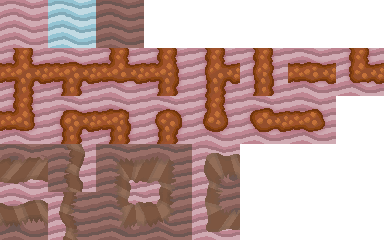
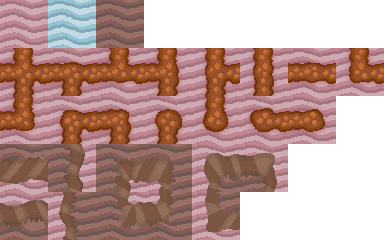
Added new tile

Changed region(s): [[0.625, 0.5833, 0.75, 0.8167]]

diff --git a/src/tile_image_loader.py b/src/tile_image_loader.py
@@ -38,6 +38,7 @@ wall_7 = (144, 144, 48, 48)
 wall_8 = (144, 192, 48, 48)
 wall_9 = (192, 144, 48, 48)
 wall_10 = (192, 192, 48, 48)
+wall_11 = (240, 144, 48, 48)
 
 tiles = [generic_ground, water, path_1,
          path_2, path_3, path_4, path_5,
@@ -46,7 +47,8 @@ tiles = [generic_ground, water, path_1,
          path_13, path_14, path_15,
          dark_ground, wall_1, wall_2,
          wall_3, wall_4, wall_5, wall_6,
-         wall_7, wall_8, wall_9, wall_10]
+         wall_7, wall_8, wall_9, wall_10,
+         wall_11]
 images = []
 
 sprite_sheet = None

diff --git a/src/map_generator.py b/src/map_generator.py
@@ -39,7 +39,8 @@ tile_colors = {15724527: "0000",
                10987431: "0024",
                11513775: "0025",
                12040119: "0026",
-               12566463: "0027"}
+               12566463: "0027",
+               13092807: "0028"}
 
 
 def generate_map(blueprint):

diff --git a/src/tile_types.py b/src/tile_types.py
@@ -17,5 +17,6 @@ solid_tiles = [
     "0024",
     "0025",
     "0026",
-    "0027"
+    "0027",
+    "0028"
 ]
